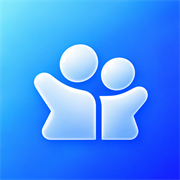
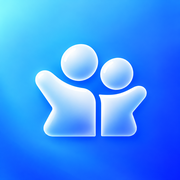
Новая иконка приложения
Иконки пересобраны из новой картинки во всех прежних размерах:
- 32 — вкладка браузера: скруглённый квадрат с прозрачными углами;
- 180 — ярлык на iOS, 192 и 512 — Android: сплошной квадрат без прозрачности.
  iOS сам скругляет углы, а прозрачные углы у него чернеют. Фигурки занимают
  69% полустороны, так что круглая маска Android (безопасная зона 80%) их
  не обрезает — одна картинка 512 годится и как any, и как maskable.

Ссылки на иконки в index.html и manifest.json получили ?v=2: у браузера
свой кеш фавиконок, и по прежнему адресу он долго показывал бы старую.
Кеш service worker'а переименован в v4: иконки отдаются из него в первую
очередь, а поиск там идёт без учёта ?v=, так что без смены имени первый
запуск после обновления мог бы показать старую картинку.

diff --git a/miniapp/index.html b/miniapp/index.html
@@ -7,9 +7,11 @@
      а не масштабировать видимую область. -->
 <meta name="viewport" content="width=device-width, initial-scale=1, maximum-scale=1, user-scalable=no, viewport-fit=cover, interactive-widget=resizes-content">
 <meta name="theme-color" content="#F2F2F7">
-<link rel="icon" type="image/png" sizes="32x32" href="icon-32.png">
-<link rel="icon" type="image/png" sizes="192x192" href="icon-192.png">
-<link rel="apple-touch-icon" sizes="180x180" href="icon-180.png">
+<!-- ?v= меняется вместе с картинкой: у браузера свой кеш фавиконок, и по
+     прежнему адресу он ещё долго показывал бы старую иконку -->
+<link rel="icon" type="image/png" sizes="32x32" href="icon-32.png?v=2">
+<link rel="icon" type="image/png" sizes="192x192" href="icon-192.png?v=2">
+<link rel="apple-touch-icon" sizes="180x180" href="icon-180.png?v=2">
 <!-- Ярлык на домашнем экране. Android берёт иконку и имя из манифеста,
      iOS — из apple-touch-icon и мета-тегов ниже. -->
 <link rel="manifest" href="manifest.json">

diff --git a/miniapp/sw.js b/miniapp/sw.js
@@ -13,7 +13,9 @@
 
 /* Имя меняется при сбросе данных: обработчик activate удаляет все кеши,
    кроме текущего, поэтому старая офлайн-копия страницы и расписания уходит. */
-const CACHE = "ttpu-static-v3";
+/* v4 — новая иконка: иконки отдаются из кеша в первую очередь, и без смены
+   имени первый запуск после обновления показал бы старую. */
+const CACHE = "ttpu-static-v4";
 const SHELL = [
   "./", "index.html", "data.json",
   "icons/home-morph.json", "icons/calendar-morph.json",
